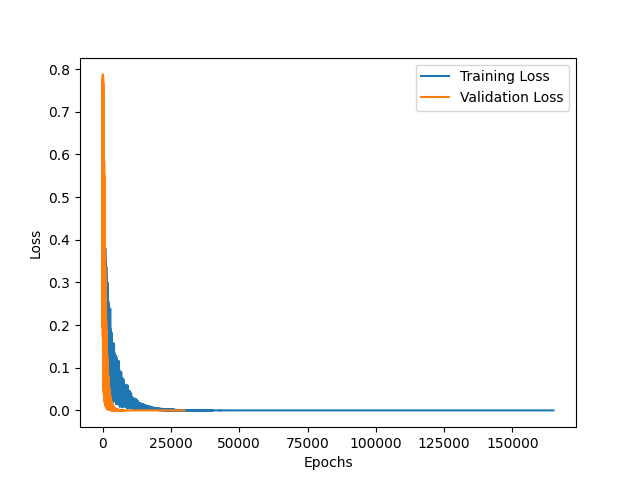
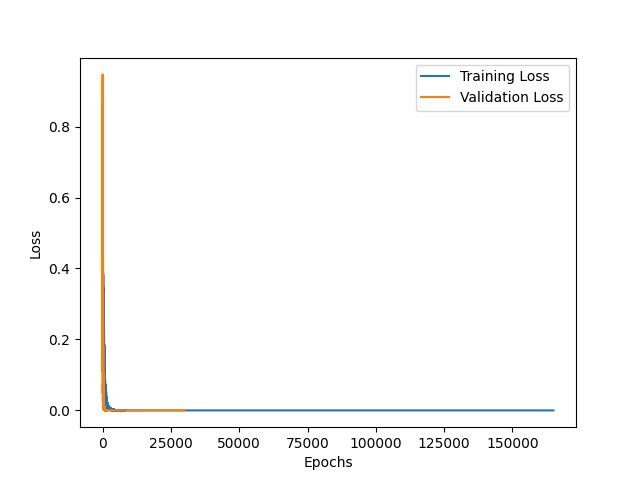
trying with neural network

diff --git a/Issues_classifier/ML_Model_Training/classifier.py b/Issues_classifier/ML_Model_Training/classifier.py
@@ -55,10 +55,14 @@ def wordBasedChecker(IssueTitle, IssueBody):
 class LogisticRegression(nn.Module):
     def __init__(self, input_size):
         super().__init__()
-        self.linear = nn.Linear(input_size, 1)
+        self.linear_1 = nn.Linear(input_size, 8)
+        self.linear_2 = nn.Linear(8, 1)
     
     def forward(self, x):
-        return F.sigmoid(self.linear(x)).view(-1) # change output shape from [n_samples, 1] to [n_samples]
+        x = F.relu(self.linear_1(x))
+        x = F.sigmoid(self.linear_2(x))
+        return x.view(-1)
+        # return F.sigmoid(self.linear(x)).view(-1) # change output shape from [n_samples, 1] to [n_samples]
 
 
 
